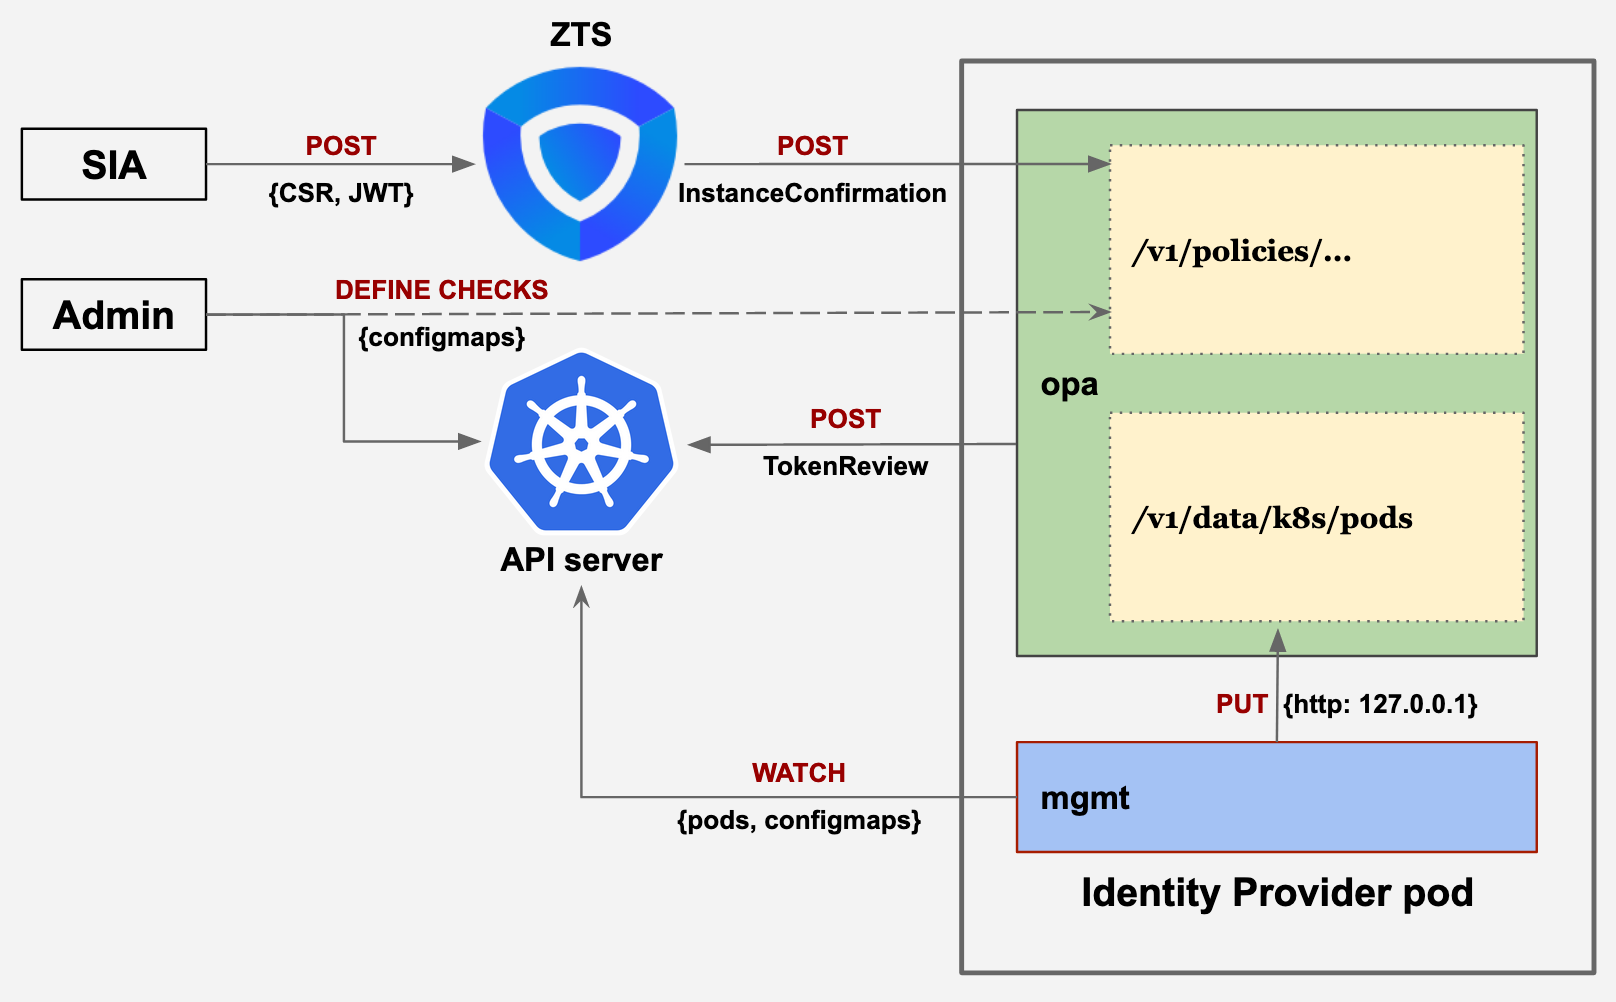
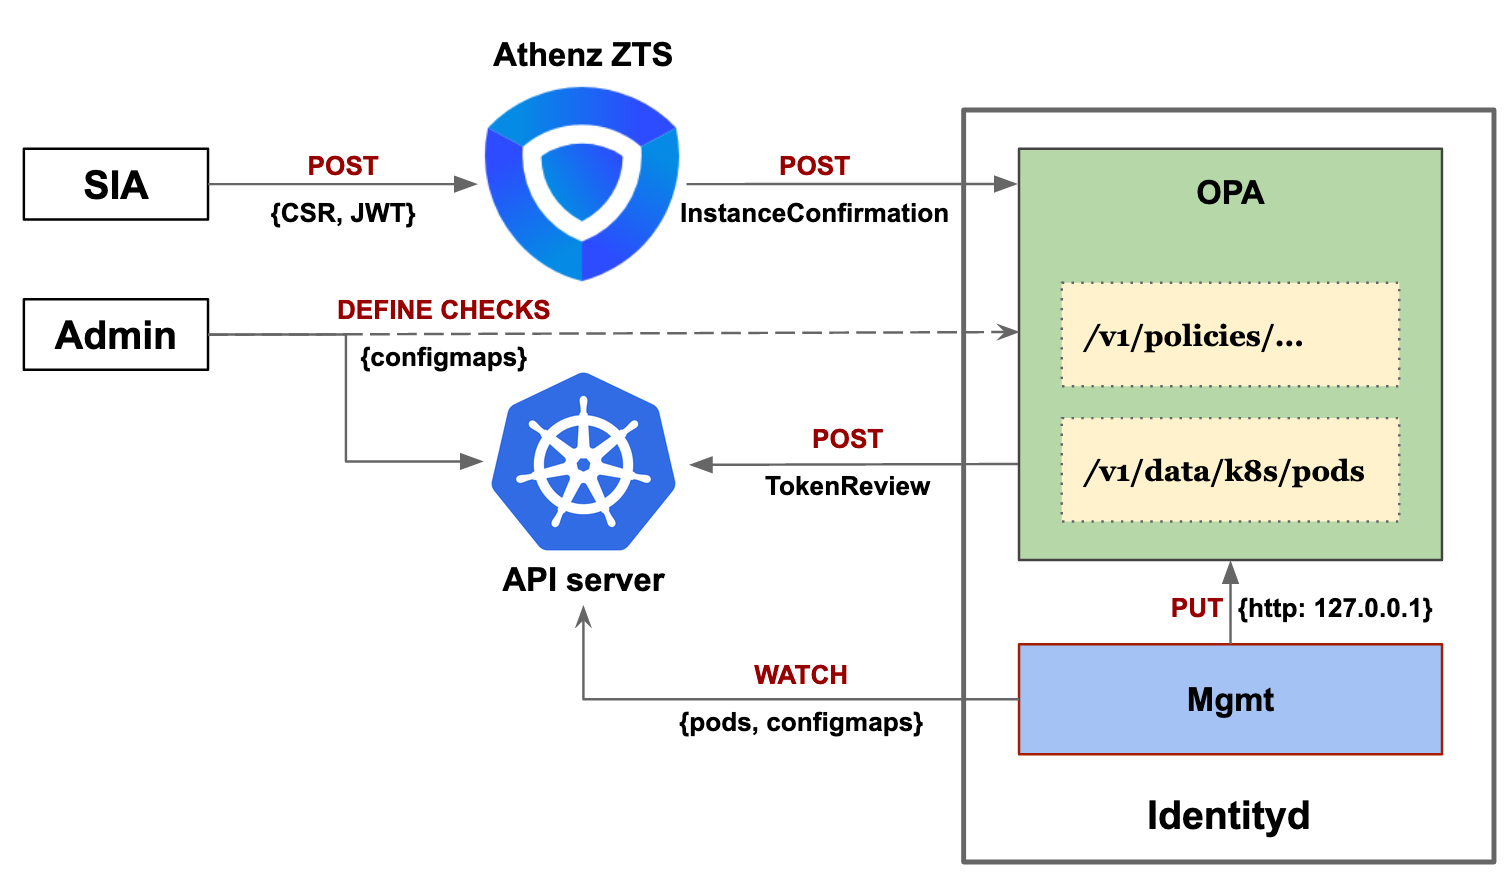
Small fixes

Changed region(s): [[0.0, 0.0, 0.9947, 0.9752]]

diff --git a/README.md b/README.md
@@ -1,46 +1,49 @@
-# K8s-athenz-identity
-K8s-athenz-identity is a control plane component which aims to securely provision unique
-[Athenz](https://github.com/yahoo/athenz) identities for [Kubernetes](https://kubernetes.io/)
-pods.
+# k8s-athenz-identity
+k8s-athenz-identity is a [Kubernetes](https://kubernetes.io/) control plane component
+which aims to securely provision unique [Athenz](https://github.com/yahoo/athenz)
+identities (X.509 certificates) for pods.
 
 ## Background
-Due to Kubernetes itself not providing a mechanism to provision unique identities per
-application pods, the need arose to create a control plane component which fulfills
-this use case.
+Kubernetes provides a mechanism for pods to obtain bound service account JWTs issued
+by the API server. However, this JWT is not directly useful outside the Kubernetes
+cluster. In general, applications require credentials issued by an organization specific
+IAM provider to authenticate with external systems. This project aims to provide a way
+for pods to exchange service account JWTs with a credential provider for a unique identity.
 
 ### Athenz
 [Athenz](https://www.athenz.io/) is an IAM provider which allows users to define
 role based access control (RBAC) for users and services. It also acts as a certificate
 authority (CA) by provisioning instances with unique identities through X.509 certificates.
 
-### Athenz Copper Argos
-[Athenz Copper Argos](https://yahoo.github.io/athenz/site/copper_argos_dev/) provides
-identity provisioning systems with a callback provider concept which acts as an extra
-security layer to validate that the instances being provisioned are allowed to receive
-the requested identity.
+#### Copper Argos
+[Athenz Copper Argos](https://yahoo.github.io/athenz/site/copper_argos_dev/) is a
+callback mechanism for identity providers to validate certificate requests from
+instances running in a variety of platforms such as Kubernetes pods, openstack vms,
+AWS EC2s, etc. This allows any orchestration layer to implement platform specific
+instance verification checks.
 
 ## Architecture
-The architecture sections dives into the details of the various components built
+The architecture section dives into the details of the various components built
 to create an Athenz Copper Argos identity provider.
 
 ![Screenshot](docs/images/architecture.png)
 
 ### SIA
-Service Identity Agent (SIA) is a container which is bundled as a sidecar for a
-pod. It is primarily responsible for creating a CSR for the application workload
+Service Identity Agent (SIA) is a container which is bundled as a sidecar for an
+application pod. It is primarily responsible for creating a CSR for the application
 and requesting a certificate from Athenz ZTS. SIA is mounted with a bound Kubernetes
 service account JWT issued with an audience specific to the identity provider,
-“athenz-identityd” (can be the Athenz service of identity provider).
+"athenz-identityd" (can be the Athenz service of identity provider).
 
 These are the steps the SIA container follows to retrieve an identity:
 1. Creates a new private key and signs a CSR with the subject common name as
-“athenz-domain.athenz-service”, required SANs, etc.
+"athenz-domain.athenz-service", required SANs, etc.
 2. Constructs an Athenz InstanceRegisterInformation object with the CSR and the
 bound service account JWT as attestation data.
 3. Makes a request to ZTS to the postInstanceRegister API call.
 4. ZTS forwards the attestation data and CSR details to the identity provider
 for validation.
-5. Certificate is minted and returned to the SIA container.
+5. Certificate is minted by Athenz ZTS and returned to the SIA container.
 6. SIA writes the certificates to a directory for the application to consume.
 
 ### Identity Provider
@@ -56,85 +59,80 @@ key validation.
 cluster.
 3. Validate the CSR details including IP, SANS, common name, etc.
 
-The above checks are implemented using OPA rego policies.
+The checks are implemented as rego policies evaluated by an OPA server.
 
 #### Using Open Policy Agent (OPA) for the Identity Provider
-OPA provides a policy evaluation engine and a Rego language to write the policies.
-The most common use case of OPA in Kubernetes is for admission control. It is
-deployed as a pod and the admission control checks are written as rego policy
-checks and loaded on the OPA as configmaps. If the admission checks require to
+[OPA](https://www.openpolicyagent.org/docs/latest/kubernetes-introduction/) provides
+a policy evaluation engine and a Rego language to write the policies. The most common
+use case of OPA in Kubernetes is for admission control where the checks are written as
+rego policies and loaded to OPA through configmaps. If the admission checks require to
 lookup any kubernetes object, OPA provides replication (cache) setup for cluster
-& namespace scoped resources. The significant advantages include modifying
-checks (configmaps) without redeploying OPA, and capturing metrics for every decision.
+& namespace scoped resources. This replication mechanism also allows updating policy
+checks dynamically.
 
 The idea is to run the identity provider pod as an OPA instance and define the
 identity verification checks as Rego policies written in configmaps. OPA’s rego
 evaluation engine also has built-in support for JWT verification and making HTTP
-requests. This helps us to verify the attestation data JWT either by making kubernetes
+requests. This helps us to verify the attestation data JWT either by making Kubernetes
 API TokenReview requests or by locally validating the signature using the pre-loaded
 kubernetes API public key. Other field verifications that depend on the pod metadata
 can use the resource replication feature and cache the pod resources. 
 
-The identity provider pod is composed of two containers:
+The identity provider pod contains two containers:
 - **Opa** - Evaluates the identity verification checks with information provided with
-from the configmap checks and replicated pods resource information
-- **Mgmt** - Fetches the configmap checks from the configured system namespace and the
-cluster pod resources by watching the kubernetes API and storing them on OPA over
-localhost PUT calls.
+from the policy configmaps and replicated pods resource information
+- **Mgmt** - Fetches the configmap policies from the configured system namespace and the
+cluster pod resources by watching the Kubernetes API and storing them on OPA through
+localhost REST API calls.
 
 ## Getting Started
 
-### Pre-requisities
-There are a variety of prerequisites required in order to run this identity provider,
-they are specified below.
-- **Kubernetes cluster** - A running Kubernetes cluster is required with access to
-the control plane. More information on how to setup a cluster can be found in the
-official documentation [here](https://kubernetes.io/docs/setup/). The version must be 
-1.13 or higher.
-- **Athenz** - [ZMS](https://yahoo.github.io/athenz/site/setup_zms_prod/), 
-[ZTS](https://yahoo.github.io/athenz/site/setup_zts_prod/) and optionally
-[UI](https://yahoo.github.io/athenz/site/setup_ui_prod/) servers installed.
+### Prerequisites
+There are a couple of prerequisites required to run this identity provider, they are
+specified below.
+- **Kubernetes cluster** - A running Kubernetes cluster, version 1.13 or higher, is
+required with admin access. More information on how to setup a cluster can be found
+in the official documentation [here](https://kubernetes.io/docs/setup/).
+- **Athenz** - A complete Athenz setup including [ZMS](https://yahoo.github.io/athenz/site/setup_zms_prod/), 
+[ZTS](https://yahoo.github.io/athenz/site/setup_zts_prod/), and an optional
+[UI](https://yahoo.github.io/athenz/site/setup_ui_prod/) server installed.
 
 ### Setup
 1. Clone the repository and use kubectl to create the [RBAC](k8s/rbac.yaml), and
-Identityd [deployment and service](k8s/identityd.yaml)
+the Identity provider [deployment and service](k8s/identityd.yaml)
 
-```
-git clone https://github.com/yahoo/k8s-athenz-identity.git
-kubectl apply -f k8s-athenz-identity/k8s
-```
+    ```
+    git clone https://github.com/yahoo/k8s-athenz-identity.git
+    kubectl apply -f k8s-athenz-identity/k8s
+    ```
 
 2. Create an Athenz domain and a service using [zms-cli](https://github.com/yahoo/athenz/tree/master/utils/zms-cli)
 or ZMS UI corresponding to the Identityd k8s service
 
-```
-# Build the zms-cli utility to interact with the Athenz ZMS server
-go get https://github.com/yahoo/athenz/tree/master/utils/zms-cli
-
-# Create an Athenz domain associated with the kubernetes cluster
-zms-cli add-domain k8s-cluster-name 
-
-# Create an Athenz service on the cluster domain to associate it with the Identityd kubernetes service 
-zms-cli -d k8s-cluster-name add-service identityd
-
-# Set the Identityd service endpoint to point to the kubernetes identityd service
-zms-cli -d k8s-cluster-name set-service-endpoint identityd identityd.default.svc.cluster.local
-``` 
+    ```
+    # Build the zms-cli utility to interact with the Athenz ZMS server
+    go get https://github.com/yahoo/athenz/tree/master/utils/zms-cli
+    
+    # Create an Athenz domain associated with the Kubernetes cluster
+    zms-cli add-domain k8s-cluster-name 
+    
+    # Create an Athenz service on the cluster domain to associate it with the Identityd Kubernetes service 
+    zms-cli -d k8s-cluster-name add-service identityd
+    
+    # Set the Identityd service endpoint to point to the kubernetes identityd service
+    zms-cli -d k8s-cluster-name set-service-endpoint identityd identityd.default.svc.cluster.local
+    ``` 
 
 ### Usage
-1. The application deployments that require Athenz identity certs the SIA container
+1. The application deployments that require Athenz identity certs need the SIA container
 and the kubernetes bound service account JWT volume mount added to the pod template
 using the sample [patch](k8s/patch/sia.yaml)
 
-```
-kubectl patch deploy <app.yaml> -p k8s-athenz-identity/k8s/patch/sia.yaml
-``` 
+    ```
+    kubectl patch deploy <app.yaml> -p k8s-athenz-identity/k8s/patch/sia.yaml
+    ``` 
 
 The generated Athenz cert and key is stored under the `tls-certs` volume mount.
-
-## Troubleshooting
-
-### Monitoring
 
 ## Contribute
 Please refer to the [contributing](Contributing.md) file for information about
@@ -145,4 +143,3 @@ Core Team : omega-core@verizonmedia.com
 
 ## License
 Copyright 2019 Verizon Media Inc. Licensed under the terms of the 3-Clause BSD License.
-
